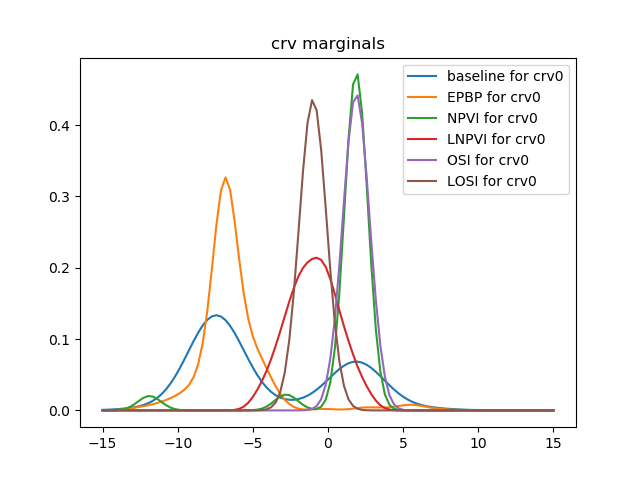
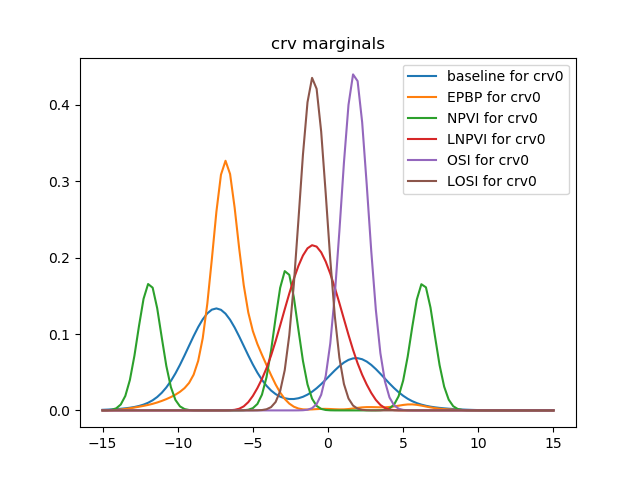
rerun K=8 without grid init means
baseline:
{'kl_err': (0.0, 0.0),
 'mmap_err': (0.0, 0.0),
 'obj': (-2.8526894952356505, 0.0)}
EPBP:
{'kl_err': (3.9152859683343317, 0.7386449288277339),
 'mmap_err': (8.920021856466532, 2.1367147825599866),
 'obj': (-1.0, 0.0)}
NPVI:
{'kl_err': (5.389418885117343, 3.608589407604819),
 'mmap_err': (6.51977761552952, 3.724307313663043),
 'obj': (-0.5701301775941383, 1.4104796852286323)}
LNPVI:
{'kl_err': (10.407752278472575, 0.003942488917136262),
 'mmap_err': (6.435424024156797, 5.617333549722722e-16),
 'obj': (53.21832474799313, 0.0009975320094557725)}
OSI:
{'kl_err': (15.803863702455178, 7.890630479945481),
 'mmap_err': (8.82314720485579, 0.9738575917463428),
 'obj': (-0.11549726894459553, 1.3737419170338818)}
LOSI:
{'kl_err': (20.333274965177964, 0.11227917788117606),
 'mmap_err': (6.435424024156797, 5.617333549722722e-16),
 'obj': (53.52065394995998, 6.654577791107262e-05)}

diff --git a/osi/hmln_citation_experiment.py b/osi/hmln_citation_experiment.py
@@ -294,7 +294,7 @@ for test_num in range(num_tests):
             lr = 0.5
             its = 1500
             fix_mix_its = int(its * 0.5)
-            logging_itv = 50
+            logging_itv = 200
             utils.set_log_potential_funs(g.factors_list, skip_existing=True)  # g factors' lpot_fun should still be None
             # above will also set the lpot_fun in all the (completely unobserved) factors in cond_g
             if algo_name in ('OSI', 'NPVI'):

diff --git a/osi/config.py b/osi/config.py
@@ -13,6 +13,6 @@ ignore_const_when_group_eval_LogQuadratic = False
 
 # initialize means on as large a grid as possible, for variational methods to
 # hopefully find better solution
-init_grid, init_grid_noise = True, 0.1
- #init_grid, init_grid_noise = False, -1
+# init_grid, init_grid_noise = True, 0.1
+init_grid, init_grid_noise = False, -1
 
